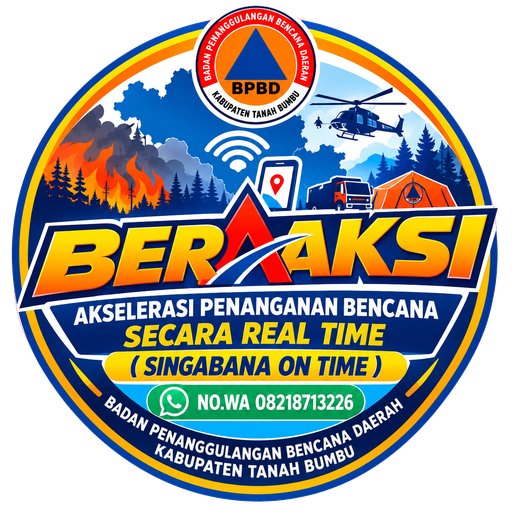
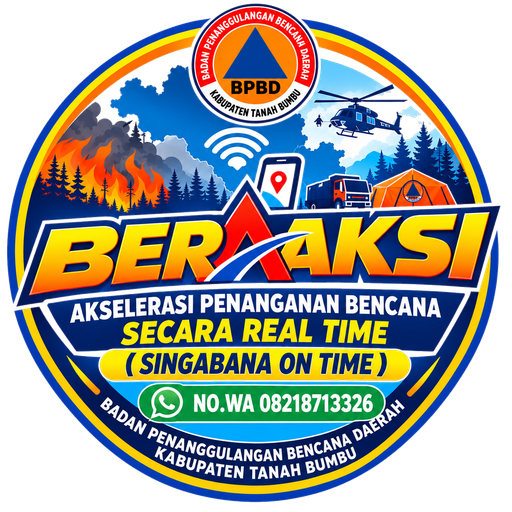
refactor(landing): update Singabana emblem assets and WhatsApp contact number

diff --git a/app/helpers/landing_helper.rb b/app/helpers/landing_helper.rb
@@ -4,7 +4,10 @@ module LandingHelper
   end
 
   def landing_whatsapp_url
-    phone_number = ENV.fetch('SINGABANA_WHATSAPP_NUMBER', '628218713226')
+    phone_number = ENV.fetch('SINGABANA_WHATSAPP_NUMBER', '628218713326').to_s.strip
+    phone_number = phone_number.delete_prefix('+')
+    phone_number = "62#{phone_number[1..]}" if phone_number.start_with?('0')
+
     unless phone_number.match?(/\A[1-9]\d{7,14}\z/)
       raise ArgumentError, 'SINGABANA_WHATSAPP_NUMBER must contain an international phone number with digits only'
     end

diff --git a/README.md b/README.md
@@ -13,7 +13,7 @@ The main site `/` displays the Indonesian public information landing page. Staff
 
 The sticky navigation displays BerAKSI and BPBD logos. The hero loads `/brand-assets/singabana.png` directly, independently of the dashboard's generic `logo.svg`. Content is limited to the service introduction, three reporting steps, a brief safety reminder, FAQ disclosures, and the WhatsApp CTA.
 
-Set `SINGABANA_WHATSAPP_NUMBER` to the operational WhatsApp number in international digits only (no `+`, spaces, or leading zero). It defaults to `628218713226`, the number printed on the supplied Singabana logo. Malformed values fail explicitly. This setting changes the CTA destination, not the phone number embedded in the logo artwork; replace the artwork too if the service number changes.
+Set `SINGABANA_WHATSAPP_NUMBER` to the operational WhatsApp number in international digits only (no `+`, spaces, or leading zero). It defaults to `628218713326`, the number printed on the supplied Singabana logo. Malformed values fail explicitly. This setting changes the CTA destination, not the phone number embedded in the logo artwork; replace the artwork too if the service number changes.
 
 Use the existing Rails/Vite setup and asset-build workflow. The dedicated Vite CSS entrypoint is `app/javascript/entrypoints/landing.css`. Logos and the Latin variable fonts are self-hosted in `public/brand-assets/`, with the font licenses included. No new application dependencies or database migrations are required. Indonesian landing source copy lives under `public_landing` in `config/locales/en.yml` and is explicitly selected for this local public service; community locale files are unchanged.
 
